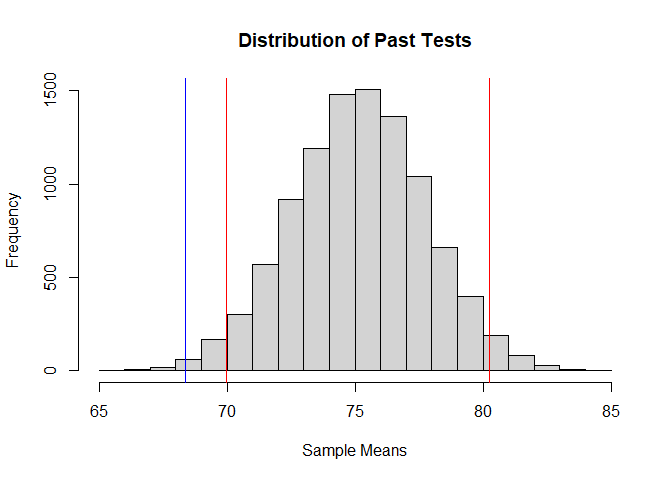
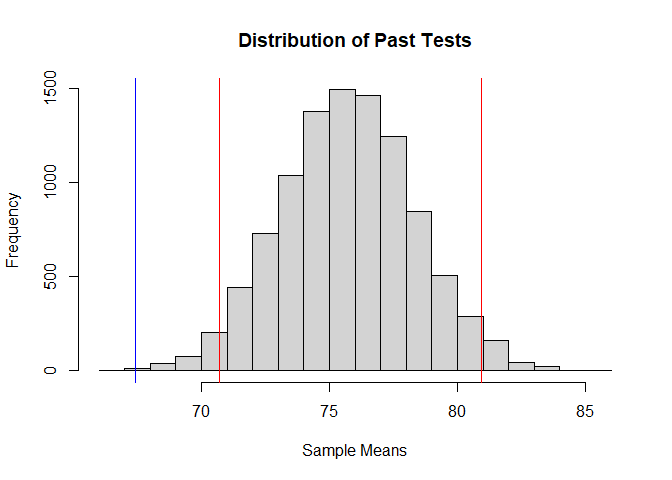
update readme to include evt_cdf function

diff --git a/README.md b/README.md
@@ -31,7 +31,7 @@ Simulations presented by Dan Uehara for UseR Oslo:
 library(simboil)
 coinflips <- simtest()
 mean(coinflips)
-#> [1] 0.94
+#> [1] 0.97
 ```
 
 ## Use simulation to get quantiles
@@ -59,25 +59,25 @@ getqs <- simq(frame = sim_scores, ref_samp = practice_test,
 ``` r
 #Get requested quantiles (example uses defaults of lowp = .025, highp = .975)
 getqs$quantiles
-#>     2.5%    97.5% 
-#> 69.96692 80.25433
+#>    2.5%   97.5% 
+#> 70.7006 80.9246
 
 #Compare practice test to distribution of past tests
 getqs$histogram
 #> $breaks
-#>  [1] 65 66 67 68 69 70 71 72 73 74 75 76 77 78 79 80 81 82 83 84 85
+#>  [1] 66 67 68 69 70 71 72 73 74 75 76 77 78 79 80 81 82 83 84 85 86
 #> 
 #> $counts
-#>  [1]    3    6   20   61  170  300  570  920 1192 1479 1505 1363 1040  660  398
-#> [16]  192   81   30    8    2
+#>  [1]    2   13   37   77  203  444  728 1039 1382 1494 1466 1244  848  505  289
+#> [16]  159   44   21    3    2
 #> 
 #> $density
-#>  [1] 0.0003 0.0006 0.0020 0.0061 0.0170 0.0300 0.0570 0.0920 0.1192 0.1479
-#> [11] 0.1505 0.1363 0.1040 0.0660 0.0398 0.0192 0.0081 0.0030 0.0008 0.0002
+#>  [1] 0.0002 0.0013 0.0037 0.0077 0.0203 0.0444 0.0728 0.1039 0.1382 0.1494
+#> [11] 0.1466 0.1244 0.0848 0.0505 0.0289 0.0159 0.0044 0.0021 0.0003 0.0002
 #> 
 #> $mids
-#>  [1] 65.5 66.5 67.5 68.5 69.5 70.5 71.5 72.5 73.5 74.5 75.5 76.5 77.5 78.5 79.5
-#> [16] 80.5 81.5 82.5 83.5 84.5
+#>  [1] 66.5 67.5 68.5 69.5 70.5 71.5 72.5 73.5 74.5 75.5 76.5 77.5 78.5 79.5 80.5
+#> [16] 81.5 82.5 83.5 84.5 85.5
 #> 
 #> $xname
 #> [1] "samps"
@@ -88,3 +88,32 @@ getqs$histogram
 #> attr(,"class")
 #> [1] "histogram"
 ```
+
+## Compare the empirical cdf to the true cdf using the plots
+
+Plot the empirical vs true cdf for the uniform distribution as follows:
+
+``` r
+evt_cdf(ylab = "Cumulative Probability", col = "blue", main = "Uniform ECDF (black) vs Uniform CDF (blue)")
+```
+
+<img src="man/figures/README-unnamed-chunk-3-1.png" width="100%" />
+
+To get a more accurate ECDF plot, increase the number of samples using n
+
+``` r
+evt_cdf(n = 10^5, ylab = "Cumulative Probability", col = "blue", main = "Uniform ECDF (black) vs Uniform CDF (blue)")
+```
+
+<img src="man/figures/README-unnamed-chunk-4-1.png" width="100%" />
+
+You can also change from the uniform distribution to other distributions
+such as the normal distribution by using anonymous functions
+
+``` r
+evt_cdf(n = 10^5, ylab = "Cumulative Probability", col = "blue", main = "Normal ECDF (black) vs Normal CDF (blue)",
+        remp = function(x)stats::rnorm(x),
+        ptrue = function(x)stats::pnorm(x))
+```
+
+<img src="man/figures/README-unnamed-chunk-5-1.png" width="100%" />
